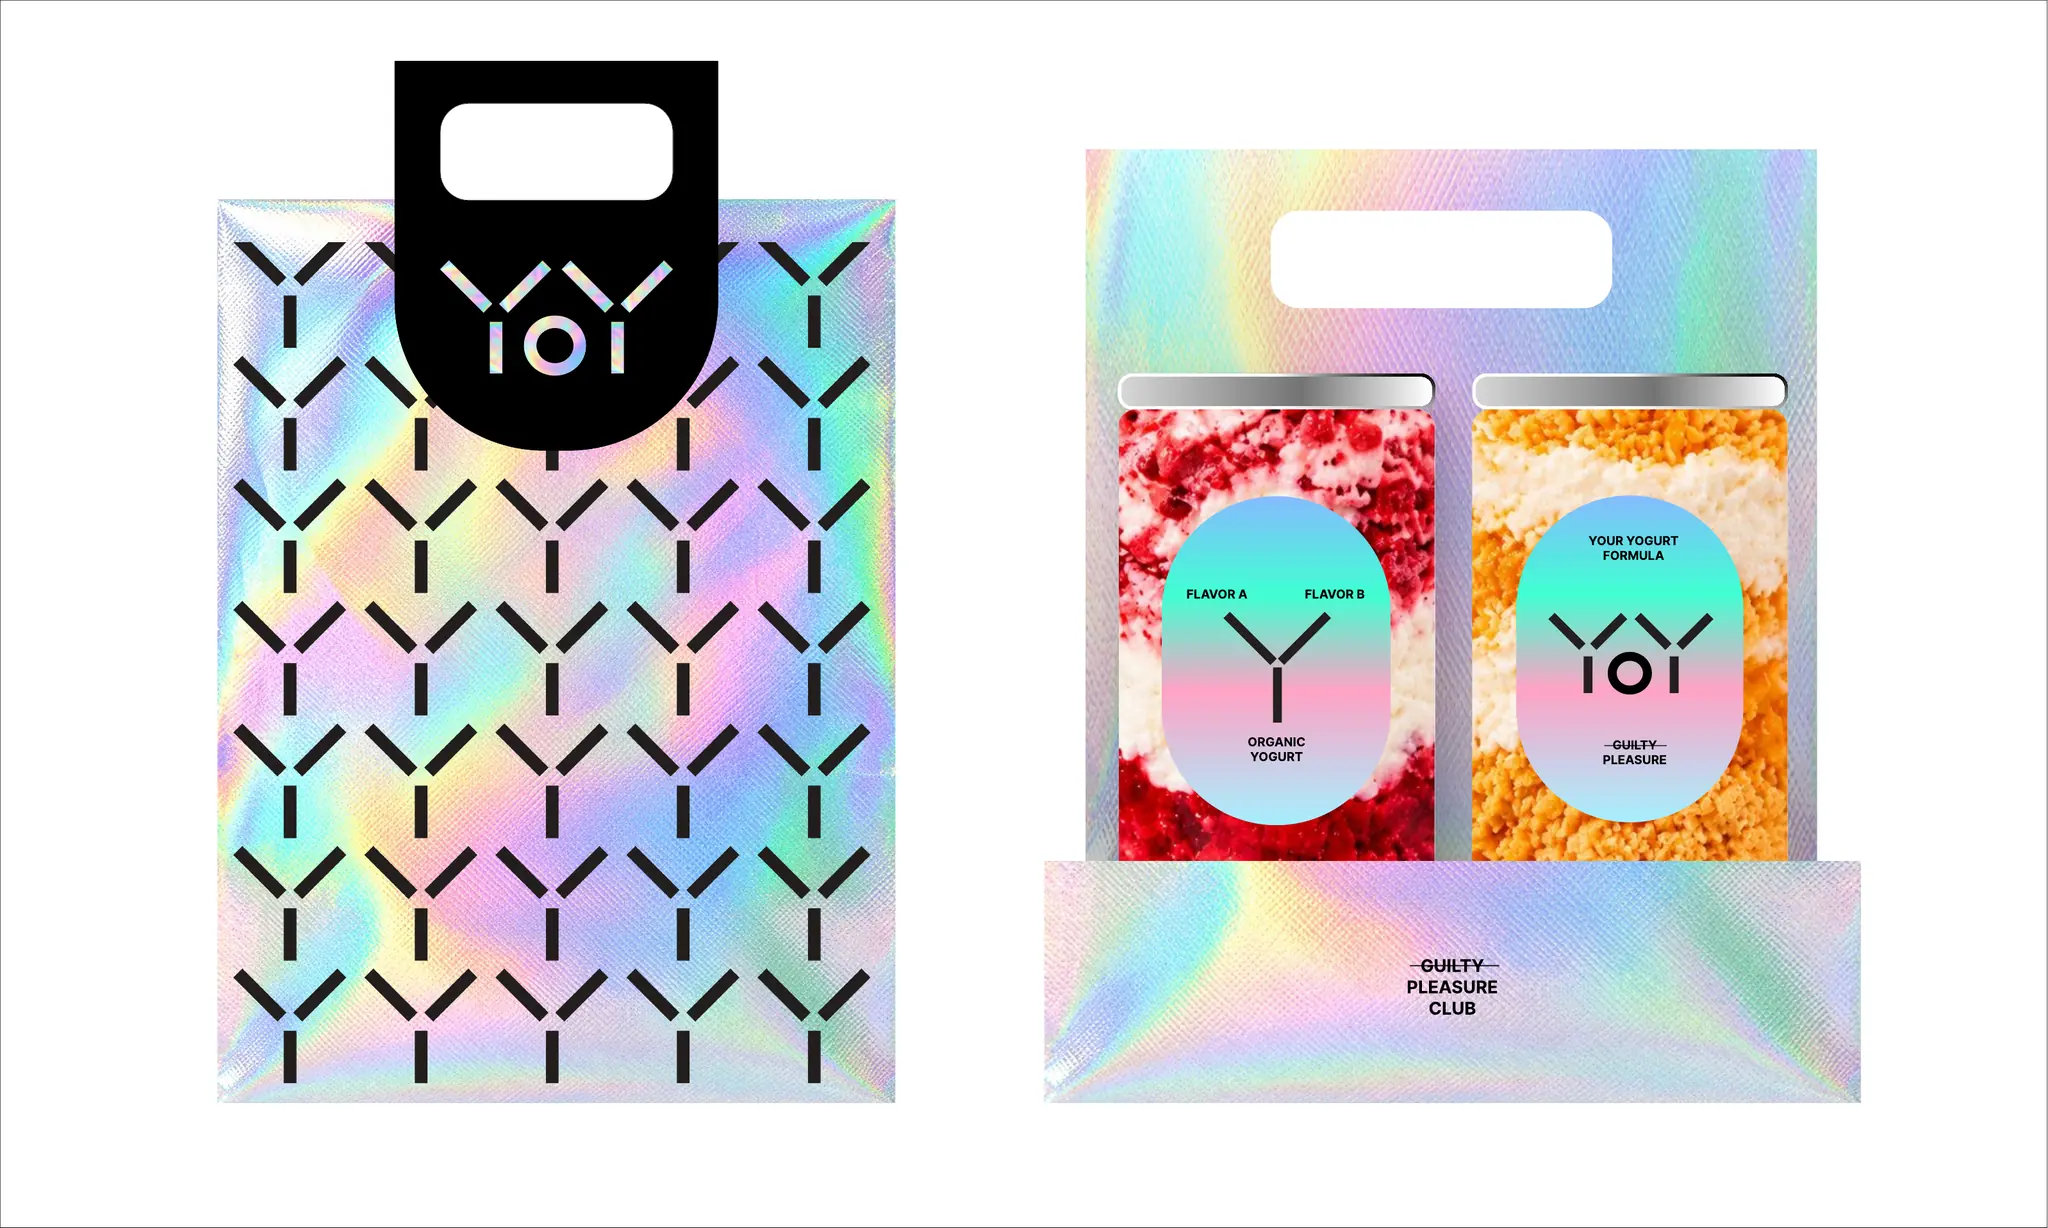
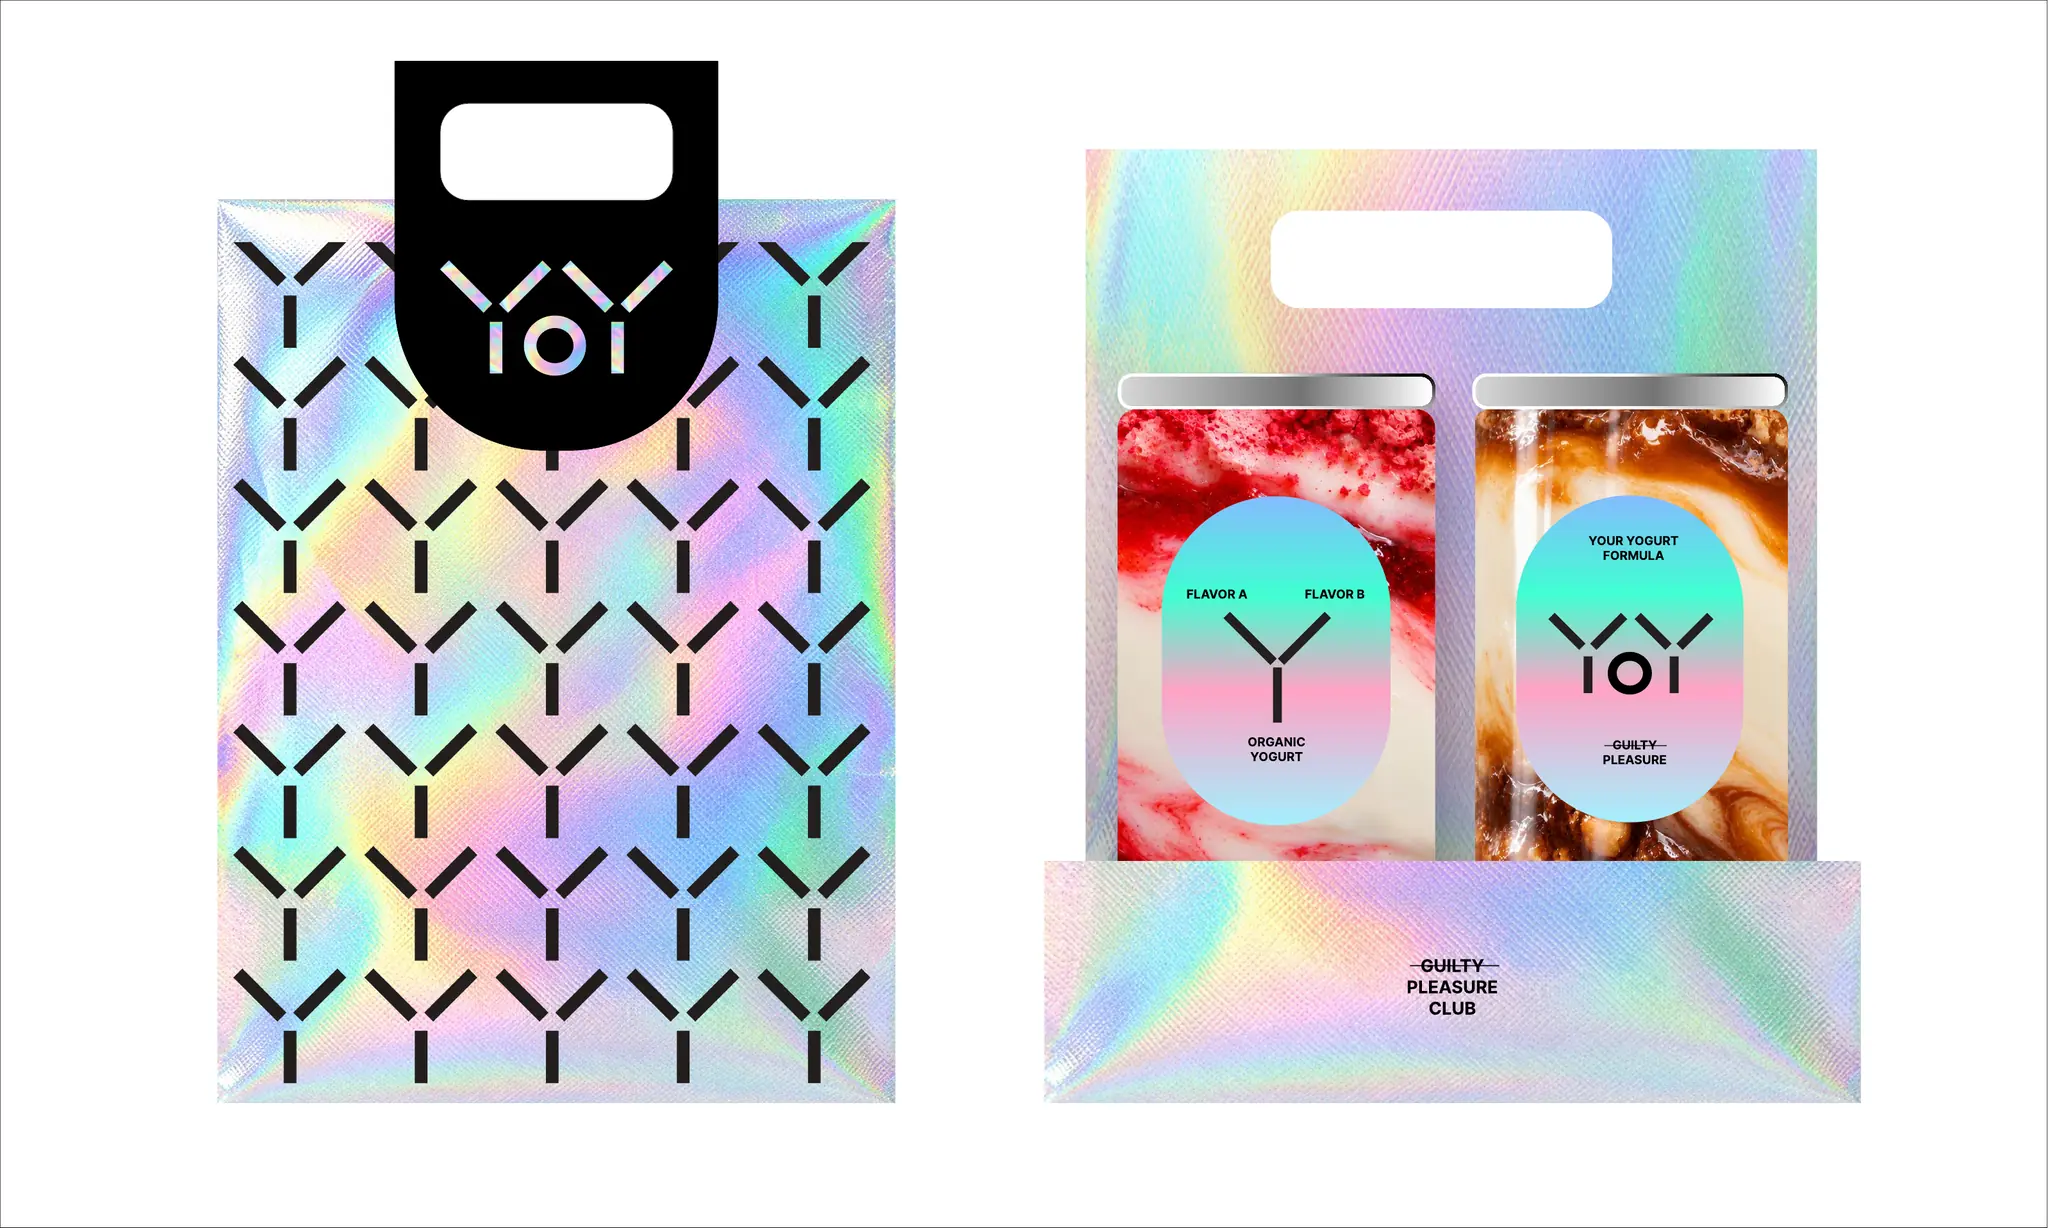
Слайд 18: сумка со стаканами новых вкусов
Картинки 18-го слайда заменены на Frame 7, версия картинок
поднята до ?v=4.

Claude-Session: https://claude.ai/code/session_01Lp3Q6ktycZ9twvzzsKVyRs

Changed region(s): [[0.5312, 0.3094, 0.875, 0.7117]]

diff --git a/index.html b/index.html
@@ -251,7 +251,7 @@ body.zoomed #track { overflow-x: hidden; touch-action: none; }
   const N = AR.length;
   const id = i => String(i + 1).padStart(2, '0');
   // Bump V when slide images change so cached copies are not reused.
-  const V = 3;
+  const V = 4;
   const src = (i, size) => `slides/${id(i)}-${size}.webp?v=${V}`;
 
   const $ = s => document.getElementById(s);
